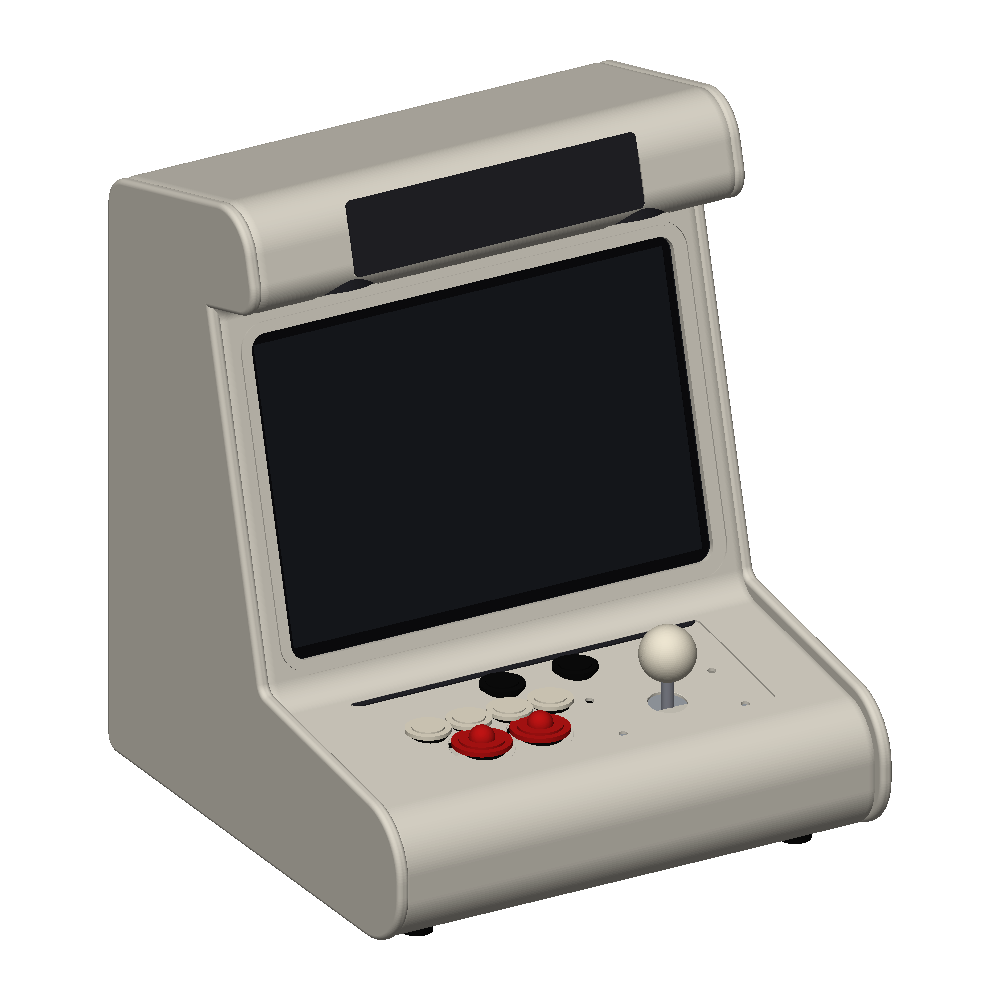
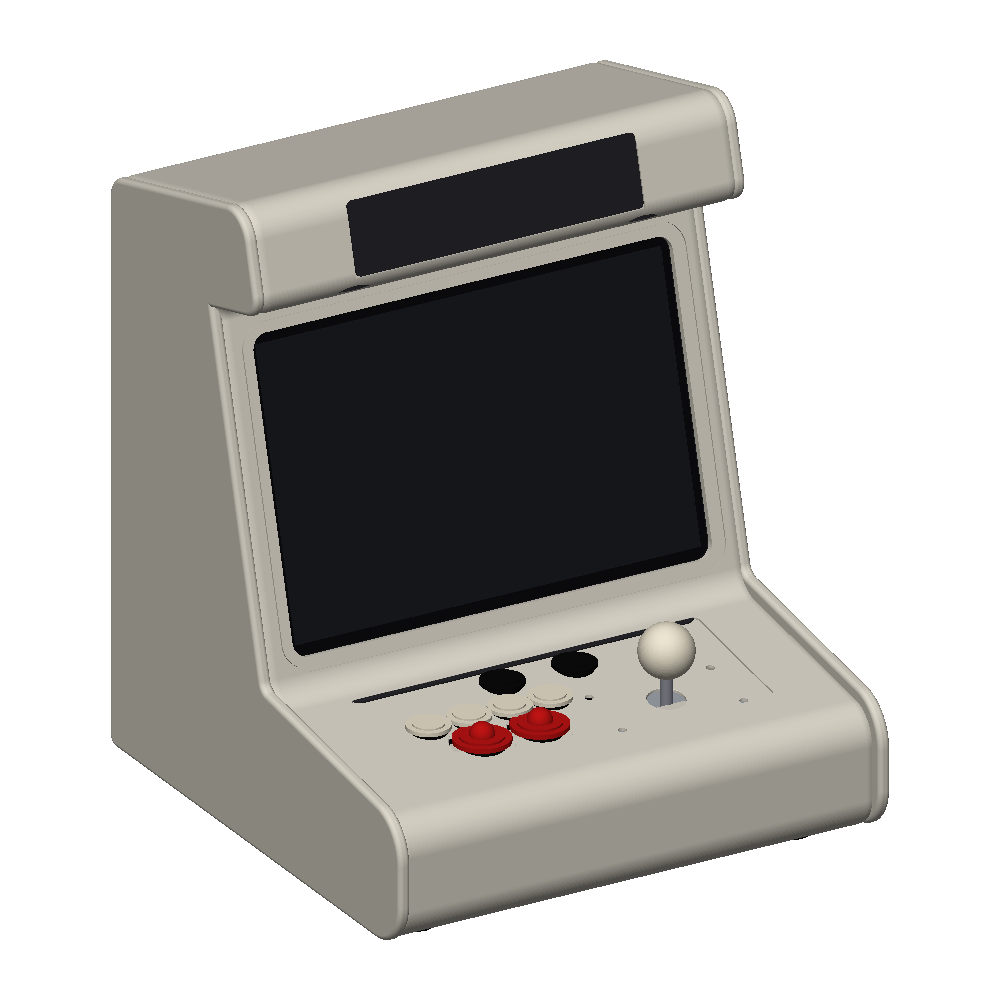
hardware: iteration 25 — silhouette radii backed off 30%
r_nose_top 34 -> 23.8, r_nose_bottom 32 -> 22.4, r_marquee_top 30 -> 21,
r_marquee_chin 20 -> 14, r_back_top 22 -> 15.4, r_back_bottom 10 -> 7
(cheek corners derive +8). 3D edge treatments unchanged. Envelope
340 x 348 x 412.6 mm. Chain green, all guards OK.

diff --git a/hardware/cabinet.py b/hardware/cabinet.py
@@ -81,12 +81,12 @@ PARAMS = {
     "chin_groove_depth": 1.0,
     "chin_groove_drop": 9.0,       # mm groove center below the face top
     # --- silhouette corner radii (2D profile) ----------------------------
-    "r_nose_bottom": 32.0,
-    "r_nose_top": 34.0,
-    "r_back_bottom": 10.0,
-    "r_back_top": 22.0,
-    "r_marquee_top": 30.0,
-    "r_marquee_chin": 20.0,
+    "r_nose_bottom": 22.4,         # iter 25: silhouette radii scaled to 70%
+    "r_nose_top": 23.8,            # (iter 24's full radii read too soft)
+    "r_back_bottom": 7.0,
+    "r_back_top": 15.4,
+    "r_marquee_top": 21.0,
+    "r_marquee_chin": 14.0,
     # --- screen (13.5" 3:2 3004x2000 hi-DPI IPS + HDMI driver board) --------
     "panel_outline_w": 296.0,      # mm module outline — confirm on arrival
     "panel_outline_h": 206.0,

diff --git a/hardware/design-notes.md b/hardware/design-notes.md
@@ -427,3 +427,11 @@ switch, PSU, inserts, feet) — then an assembled render with the enclosure.
   (dead fillet code removed + documented): wrap panels span vertex to
   vertex, so rounding plate corners would leave panel ends overhanging;
   metal-build corner softness is a fab edge break, not geometry.
+- Iteration 25 (2026-08-19, archived `iter-028`): **radii backed off
+  30%** (user: iter 24 read too soft). All silhouette radii x0.7:
+  r_nose_top 34 -> 23.8, r_nose_bottom 32 -> 22.4, r_marquee_top 30 ->
+  21, r_marquee_chin 20 -> 14, r_back_top 22 -> 15.4, r_back_bottom 10
+  -> 7 (cheek corners auto-derive +8). 3D edge treatments unchanged
+  (seam blend R20, lip blend R10, corner R12, cheek edge R3.2) — those
+  predate the complaint. Envelope 340 x 348 x 412.6 mm. Chain green,
+  all guards OK.
